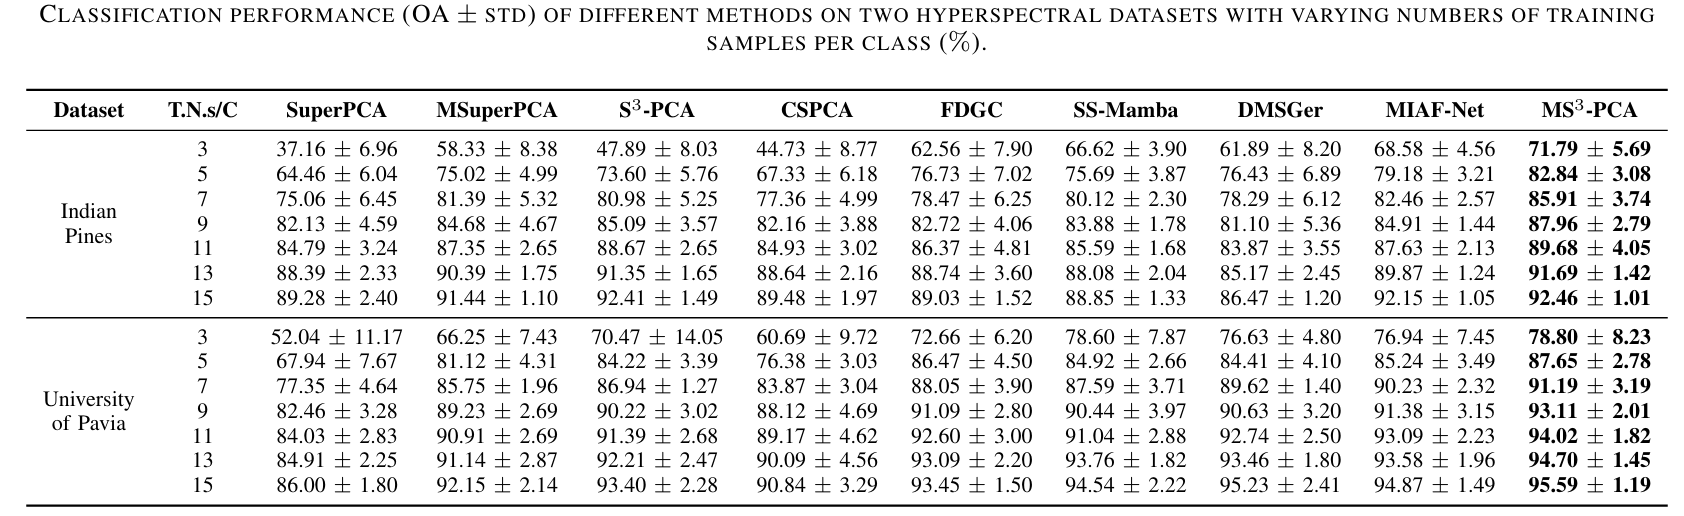
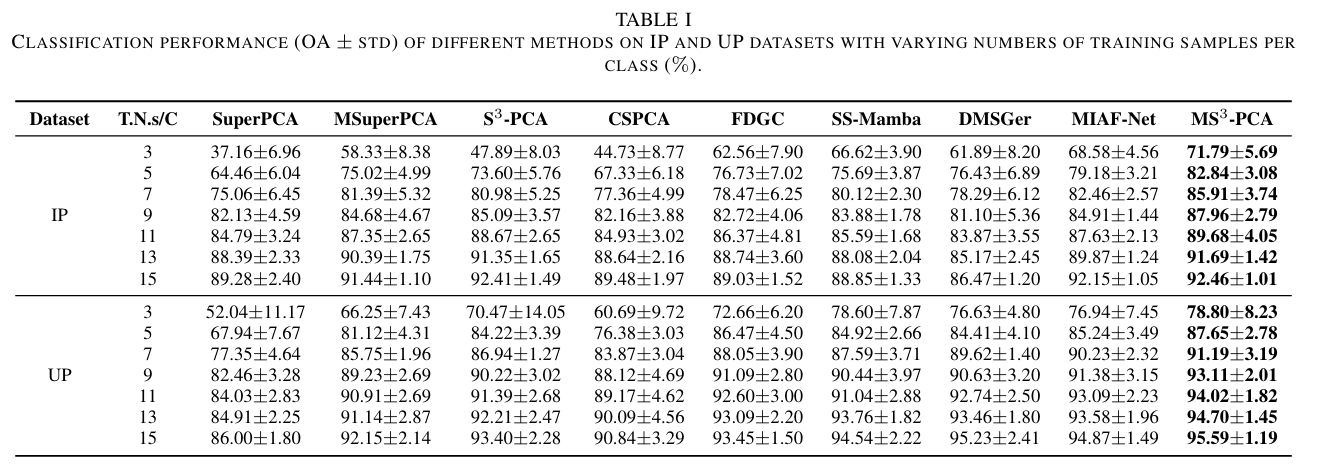
first commit

Changed region(s): [[0.0, 0.0, 0.9932, 0.9914], [0.031, 0.7511, 0.1241, 0.8412], [0.031, 0.3906, 0.0931, 0.4807]]

diff --git a/common/seg_im_class.m b/common/seg_im_class.m
@@ -1,0 +1,12 @@
+function Results = seg_im_class(Y,Ln)
+[M,N,B]=size(Y);
+Y_reshape=reshape(Y,M*N,B);
+Gt=reshape(Ln,[1,M*N]);
+Class=unique(Gt);
+Num=size(Class,2);
+Results.Y=cell(1,Num);
+Results.index=cell(1,Num);
+for i=1:Num
+    Results.index{1,i}=find(Gt==Class(i));
+    Results.Y{1,i} =Y_reshape(find(Gt==Class(i)),:);
+end

diff --git a/demo_MS3PCA.m b/demo_MS3PCA.m
@@ -40,11 +40,7 @@ data3D = data3D ./ max(data3D(:));
 data_global = cat(3, local1, local2, local3);
 
 % PCA
-[n,m,fL] = size(data_global);
-data_global = reshape(data_global, n*m, fL);
-[P] = Eigenface_f(data_global', 30);
-feat_global = data_global*P;
-feat_global = reshape(feat_global, n, m, 30);
+feat_global = applyPCAon3DMatrix(data_global,30);
 
 % Normalization with Frobenius norm
 feat_global = normalize_fro(feat_global);
@@ -53,11 +49,7 @@ feat_global = normalize_fro(feat_global);
 feat_fused = cat(3, feat_local, feat_global);
 
 % PCA
-[n,m,f]=size(feat_fused);
-feat_fused = reshape(feat_fused,n*m,f);
-[P] = Eigenface_f(feat_fused',30);
-feat_final = feat_fused*P;
-feat_final = reshape(feat_final, n, m, 30);
+feat_final = applyPCAon3DMatrix(feat_fused,30);
 
 %% Step 4: SVM Classification
 

diff --git a/common/applyPCAon3DMatrix.m b/common/applyPCAon3DMatrix.m
@@ -1,4 +1,4 @@
-function reduced3DMatrix = applyPCAon3DMatrix(inputMatrix)
+function reduced3DMatrix = applyPCAon3DMatrix(inputMatrix,dim)
     % 输入参数：inputMatrix为一个三维矩阵（MxNxP）
     
     % 获取输入矩阵的尺寸
@@ -8,10 +8,10 @@ function reduced3DMatrix = applyPCAon3DMatrix(inputMatrix)
     reshapedMatrix = reshape(inputMatrix, M * N, P);
     
     % 对新的二维矩阵进行PCA
-    [P] = Eigenface_f(reshapedMatrix',30);
+    [P] = Eigenface_f(reshapedMatrix',dim);
     A_PC=reshapedMatrix*P;
     
-    % 将结果reshape回三维矩阵，大小为 (M, N, 30)
-    reduced3DMatrix = reshape(A_PC, M, N, 30);
+    % 将结果reshape回三维矩阵，大小为 (M, N, dim)
+    reduced3DMatrix = reshape(A_PC, M, N, dim);
 end
 

diff --git a/common/element_mul.m b/common/element_mul.m
@@ -2,7 +2,7 @@ function FA = element_mul(data3D, Res, mode)
 
 [H, W, D] = size(data3D);
 N = H * W;
-Num = size(Res.Y, 2);   % 超像素数量
+Num = size(Res.Y, 2);   %超像素数量
 
 X = reshape(data3D, [], D);
 
@@ -29,11 +29,10 @@ switch mode
     case 'ratio'
         mu_mean = mean(mu, 1);
         A_sp = mu ./ (mu_mean + eps);
-        
-        % 稳定压缩
         A_sp = tanh(A_sp);
         
     otherwise
+        %不做任何处理的效果最好
         A_sp = mu ;
 end
 

diff --git a/common/extract_local_feature.m b/common/extract_local_feature.m
@@ -28,6 +28,6 @@ end
 dataDR = SuperPCA(data_cat, num_PC, labels);
 
 % --- Frobenius norm ---
-dataDR=normalize_fro(dataDR);
+dataDR = normalize_fro(dataDR);
 
 end

diff --git a/common/seg_im_class_forS3.m b/common/seg_im_class_forS3.m
@@ -12,4 +12,3 @@ for i=1:Num
     Results.cor{1,i} = [m,n];       %i个超像素的所有像素位置，m和n都是一个列向量
     Results.Y{1,i} =Y_reshape(find(Gt==Class(i)),:);    %i个超像素的像素内容
 end
- 